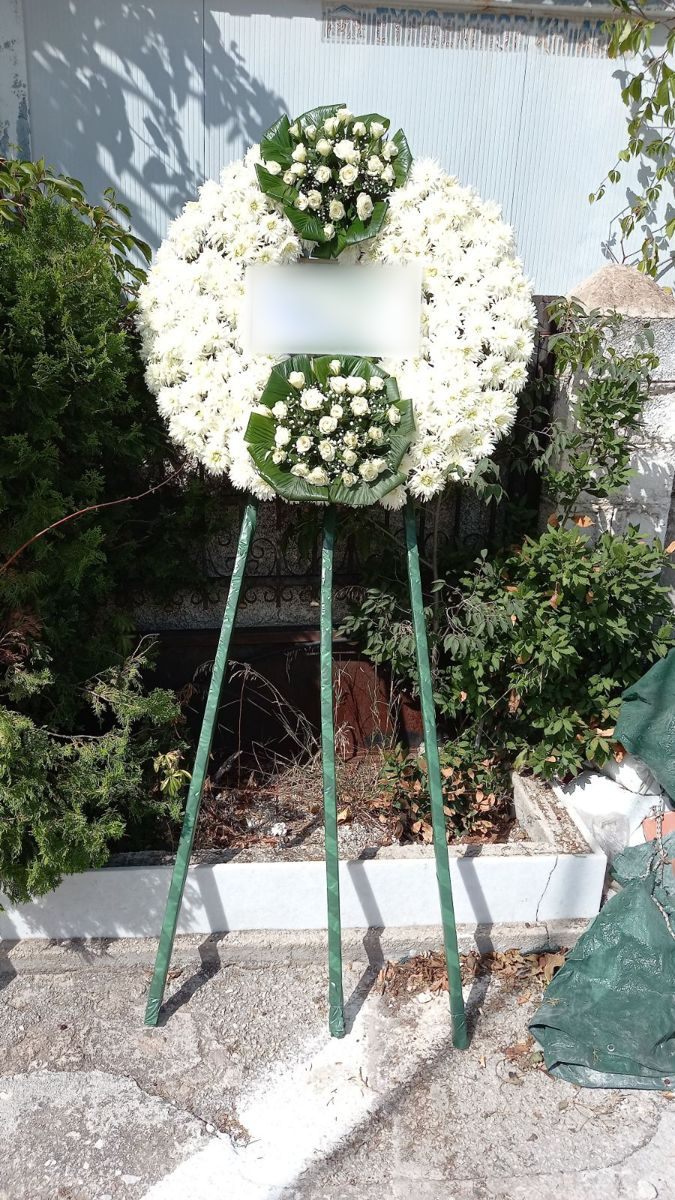
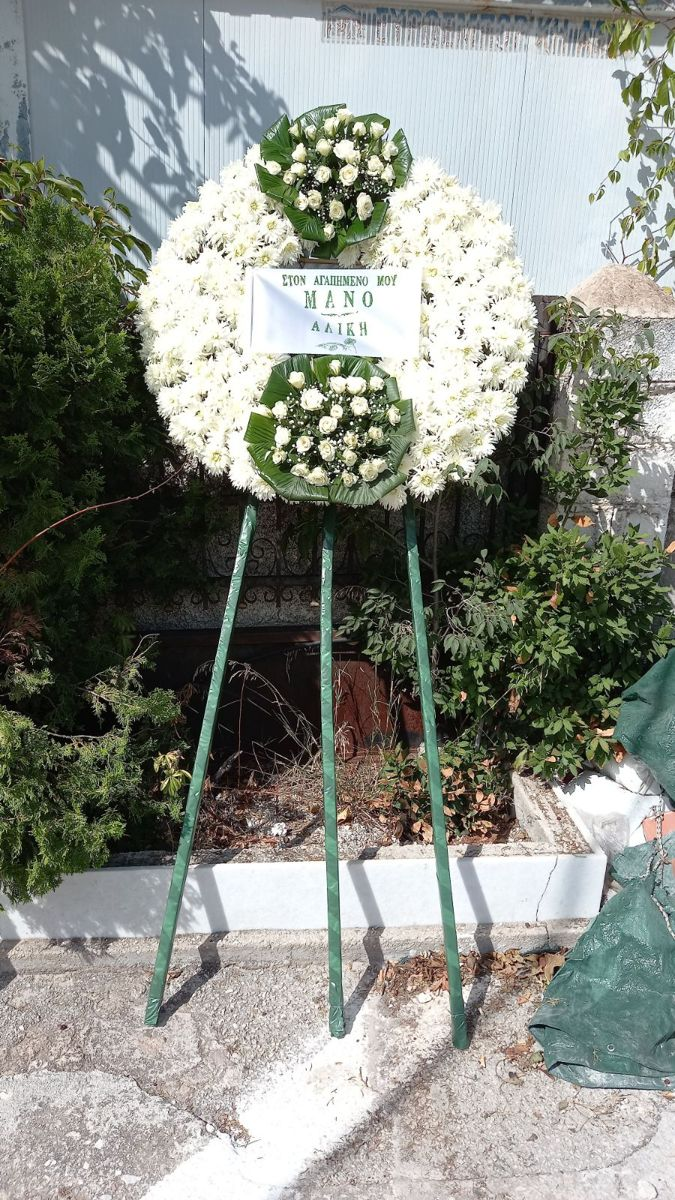
Στεφάνια: χωρίς θόλωμα στα ονόματα (κατόπιν επιθυμίας πελάτη)

Changed region(s): [[0.3733, 0.2158, 0.5911, 0.3083]]

diff --git a/ypiresies/anthostolismos/index.html b/ypiresies/anthostolismos/index.html
@@ -388,7 +388,7 @@
 <h2>Από τη δουλειά μας</h2>
 <p>Μερικά από τα στεφάνια και τους στολισμούς που έχουμε επιμεληθεί.</p>
 <div class="carousel" role="region" aria-roledescription="carousel" aria-label="Φωτογραφίες από στεφάνια και ανθοστολισμούς">
-  <div class="car-track" tabindex="0"><figure class="slide"><img src="/images/stefani-1.jpg" alt="Στεφάνι με λευκά τριαντάφυλλα, λίλιουμ και πράσινο φύλλωμα" loading="lazy" decoding="async"></figure><figure class="slide"><img src="/images/stefani-2.jpg" alt="Στρογγυλό στεφάνι από λευκά χρυσάνθεμα και τριαντάφυλλα" loading="lazy" decoding="async"></figure><figure class="slide"><img src="/images/stefani-3.jpg" alt="Δύο στρογγυλά στεφάνια με λευκά τριαντάφυλλα" loading="lazy" decoding="async"></figure><figure class="slide"><img src="/images/stefani-4.jpg" alt="Στεφάνι με λευκά τριαντάφυλλα και κορδέλα συλλυπητηρίων" loading="lazy" decoding="async"></figure><figure class="slide"><img src="/images/stefani-5.jpg" alt="Στεφάνι σε σχήμα καρδιάς από λευκά τριαντάφυλλα" loading="lazy" decoding="async"></figure><figure class="slide"><img src="/images/stefani-6.jpg" alt="Ανθοσύνθεση με λευκά τριαντάφυλλα πάνω στο φέρετρο" loading="lazy" decoding="async"></figure><figure class="slide"><img src="/images/stefani-7.jpg" alt="Στεφάνι καρδιά με λευκά τριαντάφυλλα και γυψοφίλη σε ναό" loading="lazy" decoding="async"></figure></div>
+  <div class="car-track" tabindex="0"><figure class="slide"><img src="/images/stefani-1.jpg?v=2" alt="Στεφάνι με λευκά τριαντάφυλλα, λίλιουμ και πράσινο φύλλωμα" loading="lazy" decoding="async"></figure><figure class="slide"><img src="/images/stefani-2.jpg?v=2" alt="Στρογγυλό στεφάνι από λευκά χρυσάνθεμα και τριαντάφυλλα" loading="lazy" decoding="async"></figure><figure class="slide"><img src="/images/stefani-3.jpg?v=2" alt="Δύο στρογγυλά στεφάνια με λευκά τριαντάφυλλα" loading="lazy" decoding="async"></figure><figure class="slide"><img src="/images/stefani-4.jpg?v=2" alt="Στεφάνι με λευκά τριαντάφυλλα και κορδέλα συλλυπητηρίων" loading="lazy" decoding="async"></figure><figure class="slide"><img src="/images/stefani-5.jpg?v=2" alt="Στεφάνι σε σχήμα καρδιάς από λευκά τριαντάφυλλα" loading="lazy" decoding="async"></figure><figure class="slide"><img src="/images/stefani-6.jpg?v=2" alt="Ανθοσύνθεση με λευκά τριαντάφυλλα πάνω στο φέρετρο" loading="lazy" decoding="async"></figure><figure class="slide"><img src="/images/stefani-7.jpg?v=2" alt="Στεφάνι καρδιά με λευκά τριαντάφυλλα και γυψοφίλη σε ναό" loading="lazy" decoding="async"></figure></div>
   <button class="car-btn prev" type="button" aria-label="Προηγούμενη φωτογραφία"><svg viewBox="0 0 24 24" fill="none" stroke="currentColor" stroke-width="2" stroke-linecap="round" stroke-linejoin="round" aria-hidden="true"><path d="M15 5l-7 7 7 7"/></svg></button>
   <button class="car-btn next" type="button" aria-label="Επόμενη φωτογραφία"><svg viewBox="0 0 24 24" fill="none" stroke="currentColor" stroke-width="2" stroke-linecap="round" stroke-linejoin="round" aria-hidden="true"><path d="M9 5l7 7-7 7"/></svg></button>
   <div class="car-dots" aria-hidden="true"></div>

diff --git a/tools/build.py b/tools/build.py
@@ -675,7 +675,7 @@ def photo(src, alt, w, h, pos="center"):
 def carousel(items, label):
     """Slider φωτογραφιών με βελάκια (scroll-snap, χωρίς βιβλιοθήκες)."""
     slides = "".join(
-        f'<figure class="slide"><img src="/images/{src}" alt="{esc(alt)}" loading="lazy" decoding="async"></figure>'
+        f'<figure class="slide"><img src="/images/{src}?v=2" alt="{esc(alt)}" loading="lazy" decoding="async"></figure>'
         for src, alt in items)
     return f"""<div class="carousel" role="region" aria-roledescription="carousel" aria-label="{esc(label)}">
   <div class="car-track" tabindex="0">{slides}</div>
